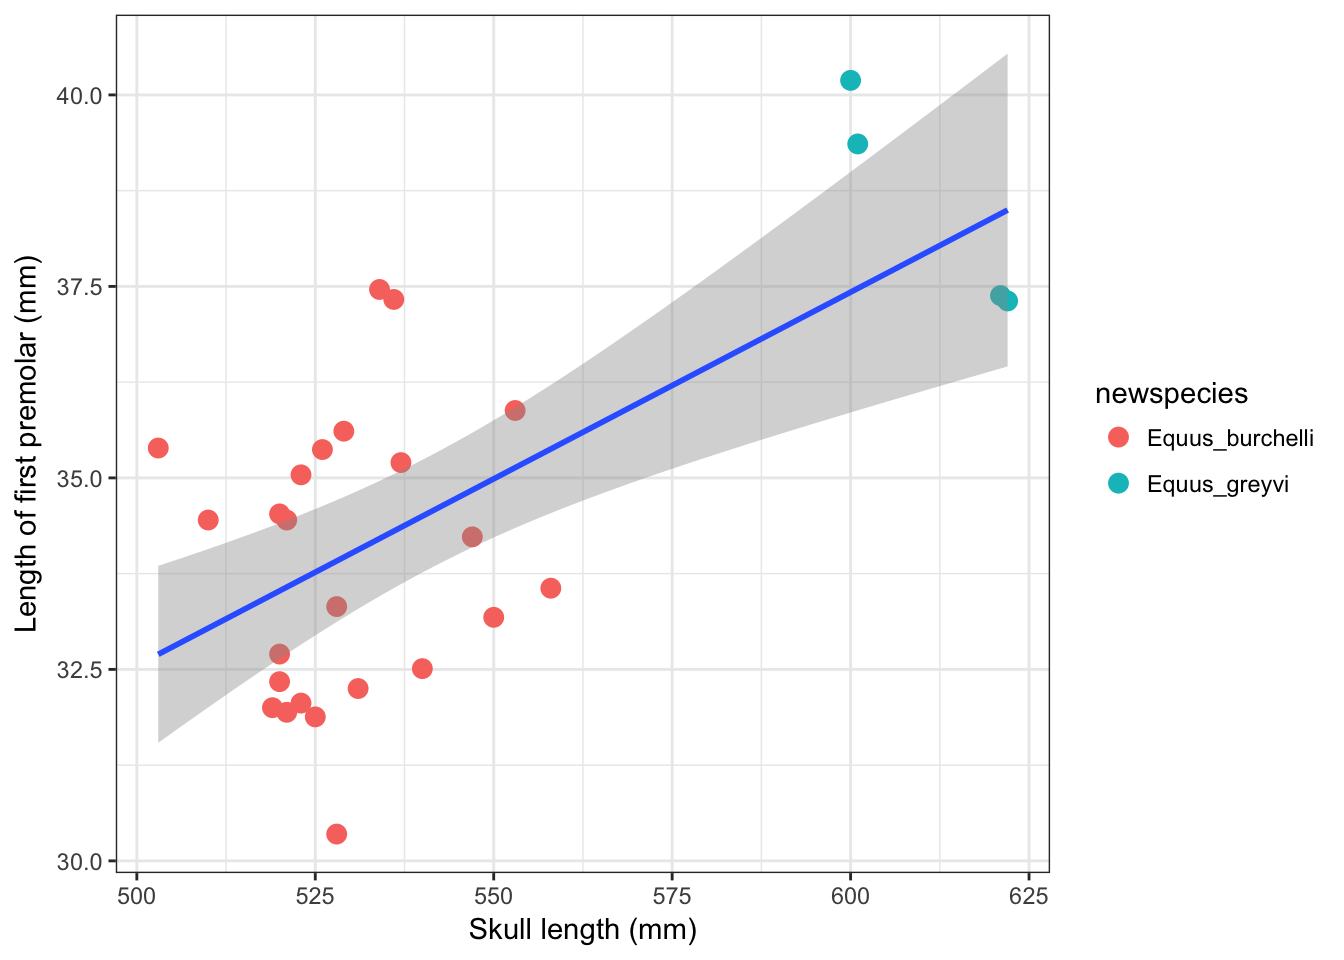
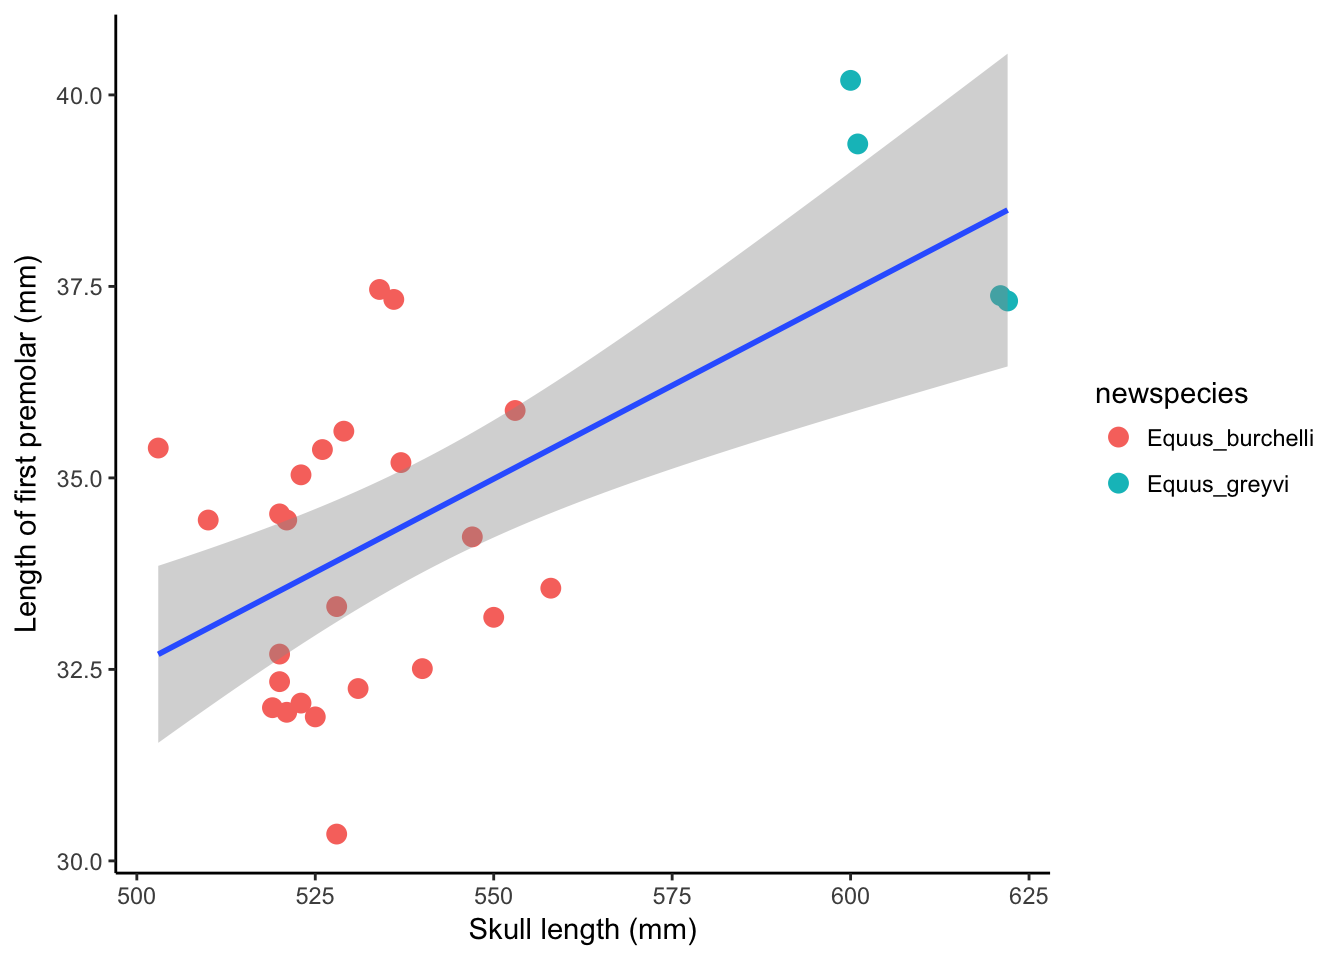
changing graph backgrounds

diff --git a/zebra-analysis_presentation.html b/zebra-analysis_presentation.html
@@ -395,6 +395,14 @@ div.tocify {
 <li>the difference between species was not statistically significant, although there were only 4 <em>Equus Greyvi</em> skulls in the sample</li>
 </ul></li>
 </ul>
+<pre><code>## $x
+## [1] &quot;Skull length (mm)&quot;
+## 
+## $y
+## [1] &quot;Length of first premolar (mm)&quot;
+## 
+## attr(,&quot;class&quot;)
+## [1] &quot;labels&quot;</code></pre>
 <p><br></p>
 <div id="table-2.-ancova-results" class="section level3">
 <h3>Table 2. ANCOVA results</h3>
